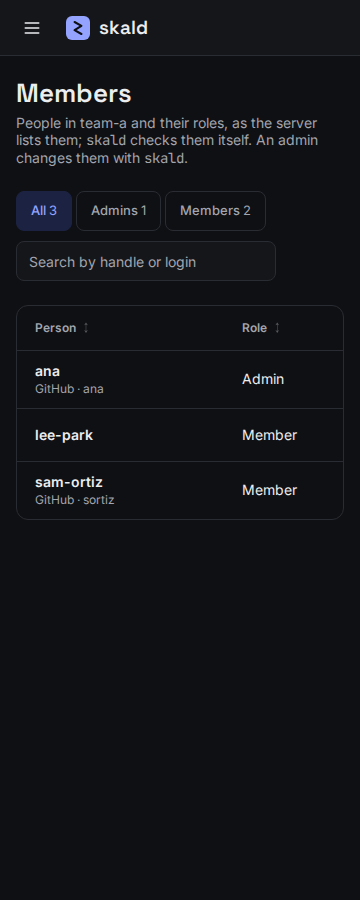
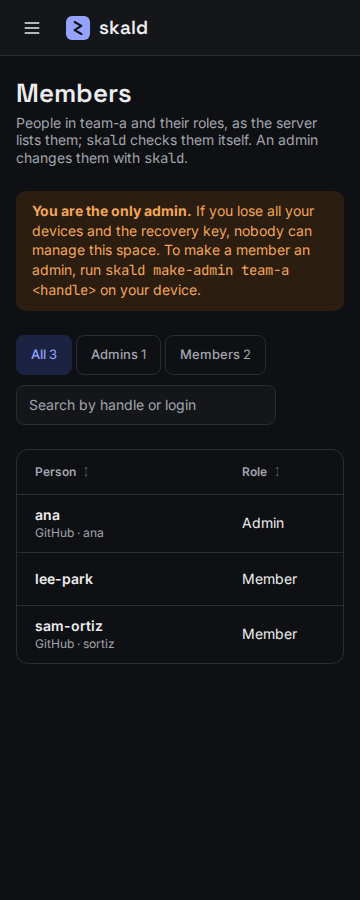
feat(web): warn the only admin of a space in members
The members' answer marks the session's account; Members shows the
design's only-admin banner with the command that makes a member an admin.

Claude-Session: https://claude.ai/code/session_01YAkhXSBZ9B5wb8oHx2taA5

diff --git a/web/src/app/Members.tsx b/web/src/app/Members.tsx
@@ -46,6 +46,12 @@ function found(member: ListedMember, query: string): boolean {
   );
 }
 
+/** Whether the session's account is the only admin among `members`, and they are more than it. */
+function onlyAdmin(members: readonly ListedMember[]): boolean {
+  const admins = members.filter((member) => member.role === "admin");
+  return members.length > 1 && admins.length === 1 && admins[0]!.you === true;
+}
+
 const columns = (now: number): Column<ListedMember>[] => [
   {
     key: "person",
@@ -98,7 +104,9 @@ export interface MembersScreenProps {
  * The Members section of 09-members.png: a row per member of the chosen space with its handle and
  * GitHub login, role, linked devices and when it joined, in the server's order until a click on a
  * column sorts them; filter buttons by role and a search by handle or login, in the browser. It
- * only shows them: an admin changes them with `skald`.
+ * only shows them: an admin changes them with `skald`. The only admin of a space with another
+ * member gets the design's banner, which names the command that makes a member an admin in place
+ * of the design's button.
  */
 export function MembersScreen({
   space,
@@ -146,6 +154,14 @@ export function MembersScreen({
         }
       />
       {failed && <Banner>{failed}</Banner>}
+      {onlyAdmin(all) && (
+        <Banner>
+          <strong>You are the only admin.</strong> If you lose all your devices
+          and the recovery key, nobody can manage this space. To make a member
+          an admin, run <code>skald make-admin {space} &lt;handle&gt;</code> on
+          your device.
+        </Banner>
+      )}
       <div className={styles.toolbar}>
         <FilterButtons
           label="Filter members"

diff --git a/web/src/api/skald.msw.ts b/web/src/api/skald.msw.ts
@@ -3940,6 +3940,7 @@ export const getListSpaceMembersResponseMock = (
     linked_devices: faker.number.int({ min: 0 }),
     joined_at: faker.date.past().toISOString().slice(0, 19) + "Z",
     deleted: faker.helpers.arrayElement([faker.datatype.boolean(), undefined]),
+    you: faker.helpers.arrayElement([faker.datatype.boolean(), undefined]),
   })),
   ...overrideResponse,
 });
@@ -3960,6 +3961,7 @@ export const getListSpaceMembersResponseMock200 = (
     linked_devices: faker.number.int({ min: 0 }),
     joined_at: faker.date.past().toISOString().slice(0, 19) + "Z",
     deleted: faker.helpers.arrayElement([faker.datatype.boolean(), undefined]),
+    you: faker.helpers.arrayElement([faker.datatype.boolean(), undefined]),
   })),
   ...overrideResponse,
 });

diff --git a/web/src/kit/KitApp.tsx b/web/src/kit/KitApp.tsx
@@ -189,7 +189,10 @@ const { devices } = getListAccountDevicesResponseMock({
   ],
 });
 
-/** The members of 09-members.png: an admin and two members, one of them without a GitHub login. */
+/**
+ * The members of 09-members.png: the account, the only admin, and two members, one of them without
+ * a GitHub login.
+ */
 const { members } = getListSpaceMembersResponseMock({
   members: [
     {
@@ -198,6 +201,7 @@ const { members } = getListSpaceMembersResponseMock({
       github_login: "ana",
       linked_devices: 4,
       joined_at: before(39 * day),
+      you: true,
     },
     {
       handle: "lee-park",

diff --git a/web/src/api/skald.schemas.ts b/web/src/api/skald.schemas.ts
@@ -760,6 +760,8 @@ export interface ListedMember {
   joined_at: string;
   /** `true` when the member's account is deleted: the server's word; absent otherwise. */
   deleted?: boolean;
+  /** `true` on the member whose account is the session's, of a web or a device session; absent on every other member. */
+  you?: boolean;
 }
 
 export interface ListedMembers {

diff --git a/crates/server/src/spaces.rs b/crates/server/src/spaces.rs
@@ -81,6 +81,8 @@ struct ListedMember {
     joined_at: String,
     #[serde(skip_serializing_if = "std::ops::Not::not")]
     deleted: bool,
+    #[serde(skip_serializing_if = "std::ops::Not::not")]
+    you: bool,
 }
 
 /// `ListedMembers` in the spec.
@@ -100,6 +102,8 @@ pub(crate) struct Found {
     pub(crate) id: SpaceId,
     name: Name,
     creator: String,
+    /// The ID of the account that finds it.
+    account: String,
     /// Whether the account gets the space.
     pub(crate) gets: bool,
     /// Whether the account is an admin in the latest revision.
@@ -124,6 +128,7 @@ pub(crate) async fn find(db: &PgPool, space: &str, account: &str) -> Result<Foun
         id,
         name: name.parse().expect("a stored space name is a valid name"),
         creator,
+        account: account.to_owned(),
         gets,
         admin,
     })
@@ -387,8 +392,8 @@ pub(crate) async fn space_devices(db: &PgPool, space: SpaceId) -> Result<Devices
 }
 
 /// `GET /spaces/<space>/members`: the members of the space's latest stored revision as the web app
-/// shows them, in its order. A member joined when the server stored the first revision of the run
-/// up to the latest that lists it.
+/// shows them, in its order, the session's account marked. A member joined when the server stored
+/// the first revision of the run up to the latest that lists it.
 pub(crate) async fn members(State(state): State<AppState>, Gotten(found): Gotten) -> Answer {
     let space = found.id.to_string();
     let latest = mailboxes::latest(&state.db, found.id)
@@ -400,14 +405,15 @@ pub(crate) async fn members(State(state): State<AppState>, Gotten(found): Gotten
     let revision =
         i64::try_from(roster.body().revision).expect("a stored revision's number fits its column");
     // `to_char` gives RFC 3339 in UTC; an account this server does not hold has no login or device.
-    let rows: Vec<(String, Option<String>, i64, String, bool)> = sqlx::query_as(
+    let rows: Vec<(String, Option<String>, i64, String, bool, bool)> = sqlx::query_as(
         "SELECT m.account_id::text,
              (SELECT login FROM sign_in_methods
               WHERE account_id = m.account_id AND provider = $3 ORDER BY created_at LIMIT 1),
              (SELECT count(*) FROM devices
               WHERE account_id = m.account_id AND cert IS NOT NULL AND NOT revoked),
              to_char(r.stored_at AT TIME ZONE 'UTC', 'YYYY-MM-DD\"T\"HH24:MI:SS.US\"Z\"'),
-             EXISTS (SELECT 1 FROM accounts WHERE id = m.account_id AND deleted_at IS NOT NULL)
+             EXISTS (SELECT 1 FROM accounts WHERE id = m.account_id AND deleted_at IS NOT NULL),
+             m.account_id = $4::uuid
          FROM roster_members m
          JOIN roster_revisions r ON r.space_id = m.space_id AND r.revision = 1 + COALESCE(
              (SELECT max(o.revision) FROM roster_revisions o
@@ -421,13 +427,14 @@ pub(crate) async fn members(State(state): State<AppState>, Gotten(found): Gotten
     .bind(&space)
     .bind(revision)
     .bind(GITHUB)
+    .bind(&found.account)
     .fetch_all(&state.db)
     .await
     .map_err(|err| Refusal::Database("read the space's members", err))?;
-    let mut shown: HashMap<String, (Option<String>, i64, String, bool)> = rows
+    let mut shown: HashMap<String, (Option<String>, i64, String, bool, bool)> = rows
         .into_iter()
-        .map(|(account, login, linked, joined, deleted)| {
-            (account, (login, linked, joined, deleted))
+        .map(|(account, login, linked, joined, deleted, you)| {
+            (account, (login, linked, joined, deleted, you))
         })
         .collect();
     let members = roster
@@ -435,7 +442,7 @@ pub(crate) async fn members(State(state): State<AppState>, Gotten(found): Gotten
         .members
         .iter()
         .filter_map(|member| {
-            let (github_login, linked_devices, joined_at, deleted) =
+            let (github_login, linked_devices, joined_at, deleted, you) =
                 shown.remove(&member.account.to_string())?;
             Some(ListedMember {
                 handle: member.handle.to_string(),
@@ -447,6 +454,7 @@ pub(crate) async fn members(State(state): State<AppState>, Gotten(found): Gotten
                 linked_devices,
                 joined_at,
                 deleted,
+                you,
             })
         })
         .collect();
